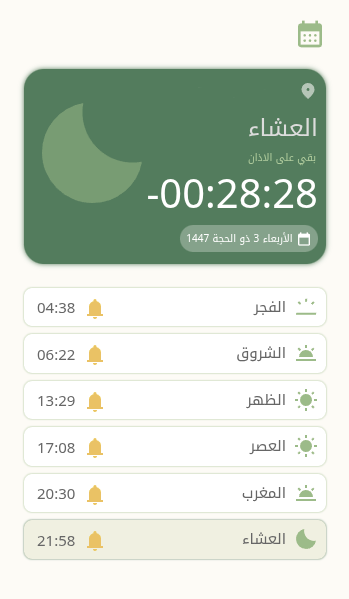
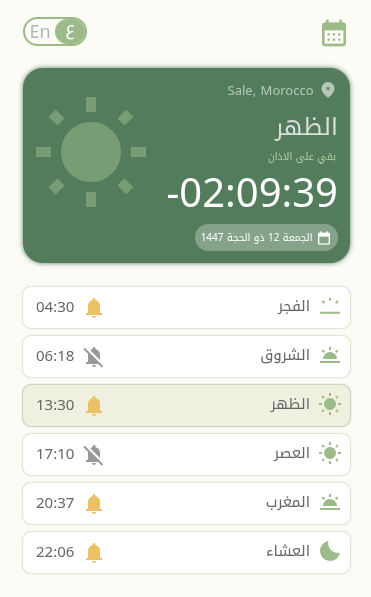
README edit

diff --git a/README.md b/README.md
@@ -2,6 +2,6 @@
 
 هذا المشروع اُنشئ بعون اللّه وكرمه ومسموح لمن يريد ان ينسخه ويعدل فيه او يعيد نشره بشرط ان يكون في سبيل اللّه وبدون مقابل.
 
-![alt text](https://github.com/yadli0/Prayers-time-and-adhan/blob/main/sc/1.png?raw=true)![alt text](https://github.com/yadli0/Prayers-time-and-adhan/blob/main/sc/2.png?raw=true)
+![alt text](https://github.com/yadli0/Prayers-time-and-adhan/blob/main/sc/1.png?raw=true)![alt text](https://github.com/yadli0/Prayers-time-and-adhan/blob/main/sc/2.png?raw=true)![alt text](https://github.com/yadli0/Prayers-time-and-adhan/blob/main/sc/3.png?raw=true)
 
 تم استخدام (API) <br>"https://api.bigdatacloud.net/data/reverse-geocode-client" للحصول على احداثيات المستخدم تم يتم استخدام الاحداثيات المقدمة للحصول على حصة الشهر الهجري الكامل عن طريق <br>(API) "https://api.aladhan.com/v1/hijriCalendar/1447/12?latitude=1234&longitude=-1234"